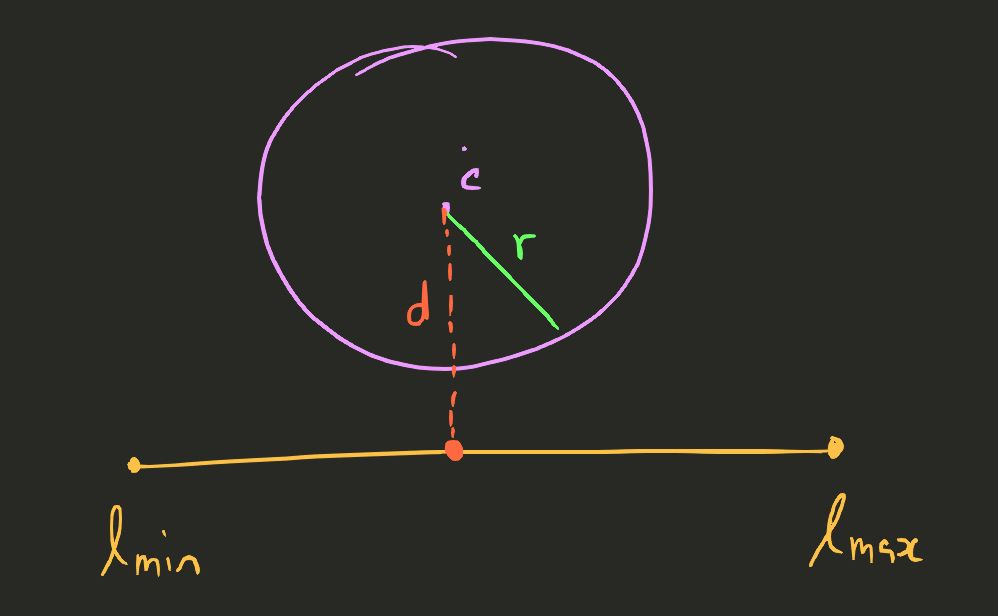
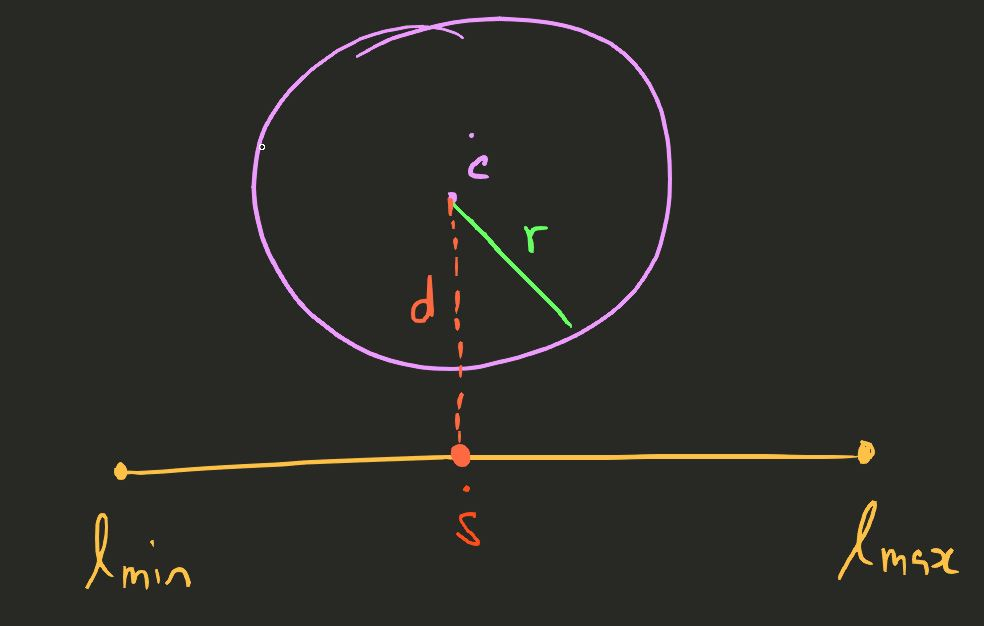
deploy: 40cd9aa11ec58030826d76240e6973ed58269814

diff --git a/blog/20210428_circle_line_collision/index.html b/blog/20210428_circle_line_collision/index.html
@@ -2,4 +2,4 @@
 <script type=text/javascript id=MathJax-script async src=https://cdn.jsdelivr.net/npm/mathjax@3/es5/tex-mml-chtml.js></script></head><body><div class=container><div class=profile><h1>momo</h1><h2>just another place for me to talk about things i like</h2></div><div class=nav><a href=/>Home</a>
 <a href=/blog>Blog</a>
 <a href=/portfolio>Portfolio</a>
-<a href=/fun>Fun</a></div><hr><div class=blog-body><h1 class=blog-content-title>Circle to Finite Line Collision</h1><h4 class=blog-content-date><time datetime=2021-07-04T12:00:00+08:00>Jul 4, 2021</time></h4><p class=blog-content-body><p>Recently, I had to derive this particular collision detection algorithm for my bullet hell genre game. It&rsquo;s an interesting algorithm that can be expanded to deal with the &lsquo;moving circle vs static circle&rsquo; and &lsquo;moving circle vs moving circle&rsquo; problems.</p><h2 id=scenario>Scenario</h2><ul><li><p>We are given a line <code>$ l $</code> where <code>$ \dot{l_{min}} $</code> and <code>$ \dot{l_{max}} $</code> represents the start and end point of the line segment respectively.</p></li><li><p>We are also given a circle, defined by its origin at point <code>$ \dot{c} $</code> and its radius <code>$ r $</code>.</p></li><li><p>The goal is to determine whether the circle is colliding with the line.</p></li></ul><p><img src=/img/blog_img/20210428_circle_line_collision/1.jpg alt></p><h2 id=general-strategy>General strategy</h2><p>The general idea is to find the point on the line <code>$ l $</code> which will be the shortest distance from the origin of the circle <code>$ \dot{c} $</code>. We will call this point <code>$ \dot{s} $</code>, and the shortest distance <code>$ d $</code>.</p><p>Next, we need to figure out whether this point <code>$\dot{s}$</code> exists within our line segment.</p><p>Finally, we figure out if <code>$ d $</code> is greater than <code>$ r $</code>. If it is not, it means that it is intersecting. For all other cases, it does not intersect.</p><p>In other words:</p><ul><li>Find <code>$ \dot{s} $</code> and <code>$d$</code>.</li><li>Check if <code>$ \dot{s} $</code> exists within our line. If it is not, we are not intersecting.</li><li>Check if <code>$d$</code> is greater than <code>$r$</code>. If it is not, we are intersecting.</li></ul><p><img src=/img/blog_img/20210428_circle_line_collision/2.jpg alt></p><p>There is a small caveat we need to cover before we continue, regarding checking if <code>$ \dot{s} $</code> exists within our line. It would not cover the case illustrated below.</p><p><img src=/img/blog_img/20210428_circle_line_collision/3.jpg alt></p><p>Thankfully, this is conceptually easy to solve. We extend our line ends, <code>$ \dot{l_{min}} $</code> and <code>$ \dot{l_{max}} $</code>, by a factor of <code>$r$</code>. We update our list:</p><ul><li>Extend <code>$ \dot{l_{min}} $</code> and <code>$ \dot{l_{max}} $</code> line segment end points by <code>$r$</code></li><li>Find <code>$ \dot{s} $</code> and <code>$d$</code>.</li><li>Check if <code>$ \dot{s} $</code> exists within our line. If it is not, we are not intersecting</li><li>Check if <code>$d$</code> is greater than <code>$r$</code>. If it is not, we are intersecting.</li></ul><h2 id=extend--dotl_min--and--dotl_max--by-a-factor-of--r->Extend $ \dot{l_{min}} $ and $ \dot{l_{max}} $ by a factor of $ r $</h2><p>First, we need to find the unit vector to extend <code>$ \dot{l_{min}} $</code> and <code>$ \dot{l_{max}} $</code>. First, get the vector <code>$ \vec{e} $</code> that goes from <code>$ \dot{l_{min}} $</code> to <code>$ \dot{l_{max}} $</code> by subtracting <code>$ \dot{l_{min}} $</code> from <code>$ \dot{l_{max}} $</code> :</p><p>$ \vec{e} = \dot{l_{max}} - \dot{l_{min}} $</p><p>Then, we normalize it to get the unit vector <code>$ \hat{v} $</code>. We get it by dividing <code>$\vec{e}$</code> by <code>$|\vec{e}|$</code>, where <code>$|\vec{v}|$</code> is the magnitude/length of <code>$ \vec{e} $</code>:</p><p>$ \hat{v} = \dfrac{\vec{e}}{|\vec{e}|} $</p><p>Since <code>$\hat{e}$</code> is the unit vector of <code>$ \vec{e} $</code>, we simply multiply it with <code>$r$</code> to get the amount to translate <code>$ \dot{l_{min}} $</code> and <code>$ \dot{l_{max}} $</code> to &rsquo;extend&rsquo; the line. Thus, our new <code>$ \dot{l_{min}} $</code> and <code>$ \dot{l_{max}} $</code> (which we will denote as <code>$ \dot{l_{min}'} $</code> and <code>$ \dot{l_{max}'} $</code>) will be:</p><p>$ \dot{l_{min}&rsquo;} = \dot{l_{min}} - (\hat{e} * r) $</p><p>$ \dot{l_{max}&rsquo;} = \dot{l_{max}} + (\hat{e} * r) $</p><h2 id=find-the-point--dots->Find the point $ \dot{s} $</h2><p>For those familiar with vector arithmetic, to find the point <code>$ \dot{s} $</code>, it is simply the projection of the vector formed by <code>$ (\dot{c} - \dot{l_{min}}) $</code> onto <code>$ \vec{v} $</code>. I would suggest those not familiar with projection to give it a look. Anyway, the formula is simply:</p><p>$ \dot{s} = \dfrac{((\dot{c} - \dot{l_{min}}) ・\vec{v} }{\vec{|v|}} * \hat{v} + \dot{l_{min}} $</p><h2 id=check-if--dots--is-between--dotl_min--and--dotl_max->Check if $ \dot{s} $ is between $ \dot{l_{min}} $ and $ \dot{l_{max}} $</h2><p>This is easier than it looks. Imaging that we have a line formed by <code>$ \dot{l_{min}} + t(\vec{v}) $</code>, where <code>$t$</code> represents a scalar value such that if it is 0, we will get <code>$ \dot{l_{min}} $</code> and if it is 1, we will get <code>$ \dot{l_{max}} $</code>.</p><p>In other words, <code>$t$</code> is a ratio. Also, since we already know that <code>$ \dot{s} $</code> is definitely on the line, it means that we can safely say that there exists a <code>$t$</code> such that:</p><p>$ \dot{l_{min}} + t(\vec{v}) = \dot{s} $</p><p>We can then choose any element of <code>$\vec{v}$</code> to find <code>$t$</code>. Note that the element that you choose from <code>$ \vec{v} $</code> must not be 0.</p><p>I.e. if <code>$ v_x = 0 $</code>, use <code>$ v_y $</code> instead, etc. There won&rsquo;t be a case where all elements of <code>$\vec{v}$</code> is 0 because&mldr;that wouldn&rsquo;t form us the line <code>$l$</code> anymore.</p><p>$ \dot{l_{min}}_x + t(v_x) = s_x $</p><p>$ t(v_x) = s_x - \dot{l_{min}}_x $</p><p>$ t = \dfrac{(s_x - \dot{l_{min}}_x)}{v_x} $</p><p>If <code>$t$</code> is lesser than 0 or greater than 1, we are not colliding. Otherwise, we go to the final section.</p><h2 id=check-the-distance-between-the-circle-and-the-line>Check the distance between the circle and the line</h2><p>Finally, we want to find the shortest distance <code>$d$</code> between the circle and the line. With that, we will compare it against the radius of the circle <code>$r$</code>. This is simply finding the distance between <code>$\dot{c}$</code> and <code>$\dot{s}$</code> using our favorite Pythagoras Theorem, and comparing it against <code>$r$</code>.</p><p>In fact, if you do not like dealing with square roots, we can just compare the <code>$d^2$</code> with <code>$r^2$</code></p><p>$ d^2 = (\dot{c} - \dot{s})_x * (\dot{c} - \dot{s})_x + (\dot{c} - \dot{s})_y * (\dot{c} - \dot{s})_y $</p><p>$ r^2 = r * r $</p><p>If <code>$d^2$</code> &lt; <code>$r^2$</code>, then we have a collision!</p><h2 id=extra-1-moving-circle-vs-static-circle>Extra 1: Moving circle vs static circle</h2><p>Now that we have this, we can expend this concept to deal with moving circle vs static circle. What we have visually is something like the following:</p><p><img src=/img/blog_img/20210428_circle_line_collision/4.jpg alt></p><p>As far as collision detection is concerned, we can simply add the moving circle&rsquo;s radius <code>$r_1$</code> to the static circle&rsquo;s radius <code>$r_2$</code> and get the diagram below:</p><p><img src=/img/blog_img/20210428_circle_line_collision/5.jpg alt></p><p>And we can just apply our circle and line algorithm!</p><h2 id=extra-2-moving-circle-vs-moving-circle>Extra 2: Moving circle vs Moving circle</h2><p>Now for the last bit: What if we have two moving circles?</p><p><img src=/img/blog_img/20210428_circle_line_collision/6.jpg alt></p><p>Just like the algorithm we did for &lsquo;moving circle vs static circle&rsquo;, we try to link the problem back to collision between a circle and a line. This means that we have to make one of the circles static.</p><p>In this case, we choose to make <code>$\dot{c_2}$</code> static. For this, we simply add the <em>reverse</em> of it&rsquo;s velocity <code>$\vec{v_2}$</code> to the moving circle&rsquo;s velocity <code>$\vec{v_1}$</code>. It&rsquo;s a little unintuitive to think about especially when the circles can move at all kinds of direction (the diagram is the a simplistic example), but it is related to the idea &lsquo;relative motion&rsquo;.</p><p><img src=/img/blog_img/20210428_circle_line_collision/7.jpg alt></p><p>One way to think about it is to imagine that <code>$\dot{c_1}$</code> and <code>$\dot{c_2}$</code> are moving trains, and that you are on, in this case, <code>$\dot{c_2}$</code>. What you would feel, even though the train is moving, is that you are still, and when you see the train <code>$\dot{c_1}$</code> approaching, it is moving with the combined velocity of itself and the reverse of your train (i.e. it&rsquo;s seems to be moving a lot faster than it should).</p><p>Now that we have a moving circle and a static circle, we can simply add the moving circle&rsquo;s radius <code>$r_1$</code> to the static circle&rsquo;s radius <code>$r_2$</code>, just like what we did in &lsquo;moving circle vs static circle&rsquo;!</p><p><img src=/img/blog_img/20210428_circle_line_collision/8.jpg alt></p></p></div></div><footer>Powered By Hugo | v2.0 | © 2022 Gerald Wong</footer></body></html>
+<a href=/fun>Fun</a></div><hr><div class=blog-body><h1 class=blog-content-title>Circle to Finite Line Collision</h1><h4 class=blog-content-date><time datetime=2021-07-04T12:00:00+08:00>Jul 4, 2021</time></h4><p class=blog-content-body><p>Recently, I had to derive this particular collision detection algorithm for my bullet hell genre game. It&rsquo;s an interesting algorithm that can be expanded to deal with the &lsquo;moving circle vs static circle&rsquo; and &lsquo;moving circle vs moving circle&rsquo; problems.</p><h2 id=scenario>Scenario</h2><ul><li><p>We are given a line <code>$ l $</code> where <code>$ \dot{l_{min}} $</code> and <code>$ \dot{l_{max}} $</code> represents the start and end point of the line segment respectively.</p></li><li><p>We are also given a circle, defined by its origin at point <code>$ \dot{c} $</code> and its radius <code>$ r $</code>.</p></li><li><p>The goal is to determine whether the circle is colliding with the line.</p></li></ul><p><img src=/img/blog_img/20210428_circle_line_collision/1.jpg alt></p><h2 id=general-strategy>General strategy</h2><p>The general idea is to find the point on the line <code>$ l $</code> which will be the shortest distance from the origin of the circle <code>$ \dot{c} $</code>. We will call this point <code>$ \dot{s} $</code>, and the shortest distance <code>$ d $</code>.</p><p>Next, we need to figure out whether this point <code>$\dot{s}$</code> exists within our line segment.</p><p>Finally, we figure out if <code>$ d $</code> is greater than <code>$ r $</code>. If it is not, it means that it is intersecting. For all other cases, it does not intersect.</p><p>In other words:</p><ul><li>Find <code>$ \dot{s} $</code> and <code>$d$</code>.</li><li>Check if <code>$ \dot{s} $</code> exists within our line. If it is not, we are not intersecting.</li><li>Check if <code>$d$</code> is greater than <code>$r$</code>. If it is not, we are intersecting.</li></ul><p><img src=/img/blog_img/20210428_circle_line_collision/2.jpg alt></p><p>There is a small caveat we need to cover before we continue, regarding checking if <code>$ \dot{s} $</code> exists within our line. It would not cover the case illustrated below.</p><p><img src=/img/blog_img/20210428_circle_line_collision/3.jpg alt></p><p>Thankfully, this is conceptually easy to solve. We extend our line ends, <code>$ \dot{l_{min}} $</code> and <code>$ \dot{l_{max}} $</code>, by a factor of <code>$r$</code>. We update our list:</p><ul><li>Extend <code>$ \dot{l_{min}} $</code> and <code>$ \dot{l_{max}} $</code> line segment end points by <code>$r$</code></li><li>Find <code>$ \dot{s} $</code> and <code>$d$</code>.</li><li>Check if <code>$ \dot{s} $</code> exists within our line. If it is not, we are not intersecting</li><li>Check if <code>$d$</code> is greater than <code>$r$</code>. If it is not, we are intersecting.</li></ul><h2 id=extend--dotl_min--and--dotl_max--by-a-factor-of--r->Extend $ \dot{l_{min}} $ and $ \dot{l_{max}} $ by a factor of $ r $</h2><p>First, we need to find the unit vector to extend <code>$ \dot{l_{min}} $</code> and <code>$ \dot{l_{max}} $</code>. First, get the vector <code>$ \vec{e} $</code> that goes from <code>$ \dot{l_{min}} $</code> to <code>$ \dot{l_{max}} $</code> by subtracting <code>$ \dot{l_{min}} $</code> from <code>$ \dot{l_{max}} $</code> :</p><p>$ \vec{e} = \dot{l_{max}} - \dot{l_{min}} $</p><p>Then, we normalize it to get the unit vector <code>$ \hat{v} $</code>. We get it by dividing <code>$\vec{e}$</code> by <code>$|\vec{e}|$</code>, where <code>$|\vec{v}|$</code> is the magnitude/length of <code>$ \vec{e} $</code>:</p><p>$ \hat{v} = \dfrac{\vec{e}}{|\vec{e}|} $</p><p>Since <code>$\hat{e}$</code> is the unit vector of <code>$ \vec{e} $</code>, we simply multiply it with <code>$r$</code> to get the amount to translate <code>$ \dot{l_{min}} $</code> and <code>$ \dot{l_{max}} $</code> to &rsquo;extend&rsquo; the line. Thus, our new <code>$ \dot{l_{min}} $</code> and <code>$ \dot{l_{max}} $</code> (which we will denote as <code>$ \dot{l_{min}'} $</code> and <code>$ \dot{l_{max}'} $</code>) will be:</p><p>$ \dot{l_{min}&rsquo;} = \dot{l_{min}} - (\hat{e} * r) $</p><p>$ \dot{l_{max}&rsquo;} = \dot{l_{max}} + (\hat{e} * r) $</p><p><img src=/img/blog_img/20210428_circle_line_collision/9.jpg alt></p><h2 id=find-the-point--dots->Find the point $ \dot{s} $</h2><p>For those familiar with vector arithmetic, to find the point <code>$ \dot{s} $</code>, it is simply the projection of the vector formed by <code>$ (\dot{c} - \dot{l_{min}}) $</code> onto <code>$ \vec{v} $</code>. I would suggest those not familiar with projection to give it a look. Anyway, the formula is simply:</p><p>$ \dot{s} = \dfrac{((\dot{c} - \dot{l_{min}}) ・\vec{v} }{\vec{|v|}} * \hat{v} + \dot{l_{min}} $</p><h2 id=check-if--dots--is-between--dotl_min--and--dotl_max->Check if $ \dot{s} $ is between $ \dot{l_{min}} $ and $ \dot{l_{max}} $</h2><p>This is easier than it looks. Imaging that we have a line formed by <code>$ \dot{l_{min}} + t(\vec{v}) $</code>, where <code>$t$</code> represents a scalar value such that if it is 0, we will get <code>$ \dot{l_{min}} $</code> and if it is 1, we will get <code>$ \dot{l_{max}} $</code>.</p><p>In other words, <code>$t$</code> is a ratio. Also, since we already know that <code>$ \dot{s} $</code> is definitely on the line, it means that we can safely say that there exists a <code>$t$</code> such that:</p><p>$ \dot{l_{min}} + t(\vec{v}) = \dot{s} $</p><p>We can then choose any element of <code>$\vec{v}$</code> to find <code>$t$</code>. Note that the element that you choose from <code>$ \vec{v} $</code> must not be 0.</p><p>I.e. if <code>$ v_x = 0 $</code>, use <code>$ v_y $</code> instead, etc. There won&rsquo;t be a case where all elements of <code>$\vec{v}$</code> is 0 because&mldr;that wouldn&rsquo;t form us the line <code>$l$</code> anymore.</p><p>$ \dot{l_{min}}_x + t(v_x) = s_x $</p><p>$ t(v_x) = s_x - \dot{l_{min}}_x $</p><p>$ t = \dfrac{(s_x - \dot{l_{min}}_x)}{v_x} $</p><p>If <code>$t$</code> is lesser than 0 or greater than 1, we are not colliding. Otherwise, we go to the final section.</p><h2 id=check-the-distance-between-the-circle-and-the-line>Check the distance between the circle and the line</h2><p>Finally, we want to find the shortest distance <code>$d$</code> between the circle and the line. With that, we will compare it against the radius of the circle <code>$r$</code>. This is simply finding the distance between <code>$\dot{c}$</code> and <code>$\dot{s}$</code> using our favorite Pythagoras Theorem, and comparing it against <code>$r$</code>.</p><p>In fact, if you do not like dealing with square roots, we can just compare the <code>$d^2$</code> with <code>$r^2$</code></p><p>$ d^2 = (\dot{c} - \dot{s})_x * (\dot{c} - \dot{s})_x + (\dot{c} - \dot{s})_y * (\dot{c} - \dot{s})_y $</p><p>$ r^2 = r * r $</p><p>If <code>$d^2$</code> &lt; <code>$r^2$</code>, then we have a collision!</p><h2 id=extra-1-moving-circle-vs-static-circle>Extra 1: Moving circle vs static circle</h2><p>Now that we have this, we can expend this concept to deal with moving circle vs static circle. What we have visually is something like the following:</p><p><img src=/img/blog_img/20210428_circle_line_collision/4.jpg alt></p><p>As far as collision detection is concerned, we can simply add the moving circle&rsquo;s radius <code>$r_1$</code> to the static circle&rsquo;s radius <code>$r_2$</code> and get the diagram below:</p><p><img src=/img/blog_img/20210428_circle_line_collision/5.jpg alt></p><p>And we can just apply our circle and line algorithm!</p><h2 id=extra-2-moving-circle-vs-moving-circle>Extra 2: Moving circle vs Moving circle</h2><p>Now for the last bit: What if we have two moving circles?</p><p><img src=/img/blog_img/20210428_circle_line_collision/6.jpg alt></p><p>Just like the algorithm we did for &lsquo;moving circle vs static circle&rsquo;, we try to link the problem back to collision between a circle and a line. This means that we have to make one of the circles static.</p><p>In this case, we choose to make <code>$\dot{c_2}$</code> static. For this, we simply add the <em>reverse</em> of it&rsquo;s velocity <code>$\vec{v_2}$</code> to the moving circle&rsquo;s velocity <code>$\vec{v_1}$</code>. It&rsquo;s a little unintuitive to think about especially when the circles can move at all kinds of direction (the diagram is the a simplistic example), but it is related to the idea &lsquo;relative motion&rsquo;.</p><p><img src=/img/blog_img/20210428_circle_line_collision/7.jpg alt></p><p>One way to think about it is to imagine that <code>$\dot{c_1}$</code> and <code>$\dot{c_2}$</code> are moving trains, and that you are on, in this case, <code>$\dot{c_2}$</code>. What you would feel, even though the train is moving, is that you are still, and when you see the train <code>$\dot{c_1}$</code> approaching, it is moving with the combined velocity of itself and the reverse of your train (i.e. it&rsquo;s seems to be moving a lot faster than it should).</p><p>Now that we have a moving circle and a static circle, we can simply add the moving circle&rsquo;s radius <code>$r_1$</code> to the static circle&rsquo;s radius <code>$r_2$</code>, just like what we did in &lsquo;moving circle vs static circle&rsquo;!</p><p><img src=/img/blog_img/20210428_circle_line_collision/8.jpg alt></p></p></div></div><footer>Powered By Hugo | v2.0 | © 2022 Gerald Wong</footer></body></html>

diff --git a/index.html b/index.html
@@ -1,4 +1,4 @@
-<html lang=en><head><meta name=generator content="Hugo 0.104.3"><meta charset=utf-8><meta name=viewport content="width=device-width,initial-scale=1"><link rel=stylesheet href=https://www.w3schools.com/w3css/4/w3.css><link rel=stylesheet href="https://fonts.googleapis.com/css?family=Open+Sans"><link rel=stylesheet href="https://fonts.googleapis.com/css?family=Inconsolata"><link rel=stylesheet href=/css/common.css><link rel="shortcut icon" type=image/png href=/img/favicon.png><title>Gerald's Website</title><script>MathJax={tex:{inlineMath:[["$","$"],["\\(","\\)"]],displayMath:[["$$","$$"],["\\[","\\]"]],processEscapes:!0,processEnvironments:!0},options:{skipHtmlTags:["script","noscript","style","textarea","pre"]}},window.addEventListener("load",e=>{document.querySelectorAll("mjx-container").forEach(function(e){e.parentElement.classList+="has-jax"})})</script><script src="https://polyfill.io/v3/polyfill.min.js?features=es6"></script>
+<html lang=en><head><meta name=generator content="Hugo 0.105.0"><meta charset=utf-8><meta name=viewport content="width=device-width,initial-scale=1"><link rel=stylesheet href=https://www.w3schools.com/w3css/4/w3.css><link rel=stylesheet href="https://fonts.googleapis.com/css?family=Open+Sans"><link rel=stylesheet href="https://fonts.googleapis.com/css?family=Inconsolata"><link rel=stylesheet href=/css/common.css><link rel="shortcut icon" type=image/png href=/img/favicon.png><title>Gerald's Website</title><script>MathJax={tex:{inlineMath:[["$","$"],["\\(","\\)"]],displayMath:[["$$","$$"],["\\[","\\]"]],processEscapes:!0,processEnvironments:!0},options:{skipHtmlTags:["script","noscript","style","textarea","pre"]}},window.addEventListener("load",e=>{document.querySelectorAll("mjx-container").forEach(function(e){e.parentElement.classList+="has-jax"})})</script><script src="https://polyfill.io/v3/polyfill.min.js?features=es6"></script>
 <script type=text/javascript id=MathJax-script async src=https://cdn.jsdelivr.net/npm/mathjax@3/es5/tex-mml-chtml.js></script></head><body><div class=container><div class=profile><h1>momo</h1><h2>just another place for me to talk about things i like</h2></div><div class=nav><a href=/>Home</a>
 <a href=/blog>Blog</a>
 <a href=/portfolio>Portfolio</a>
